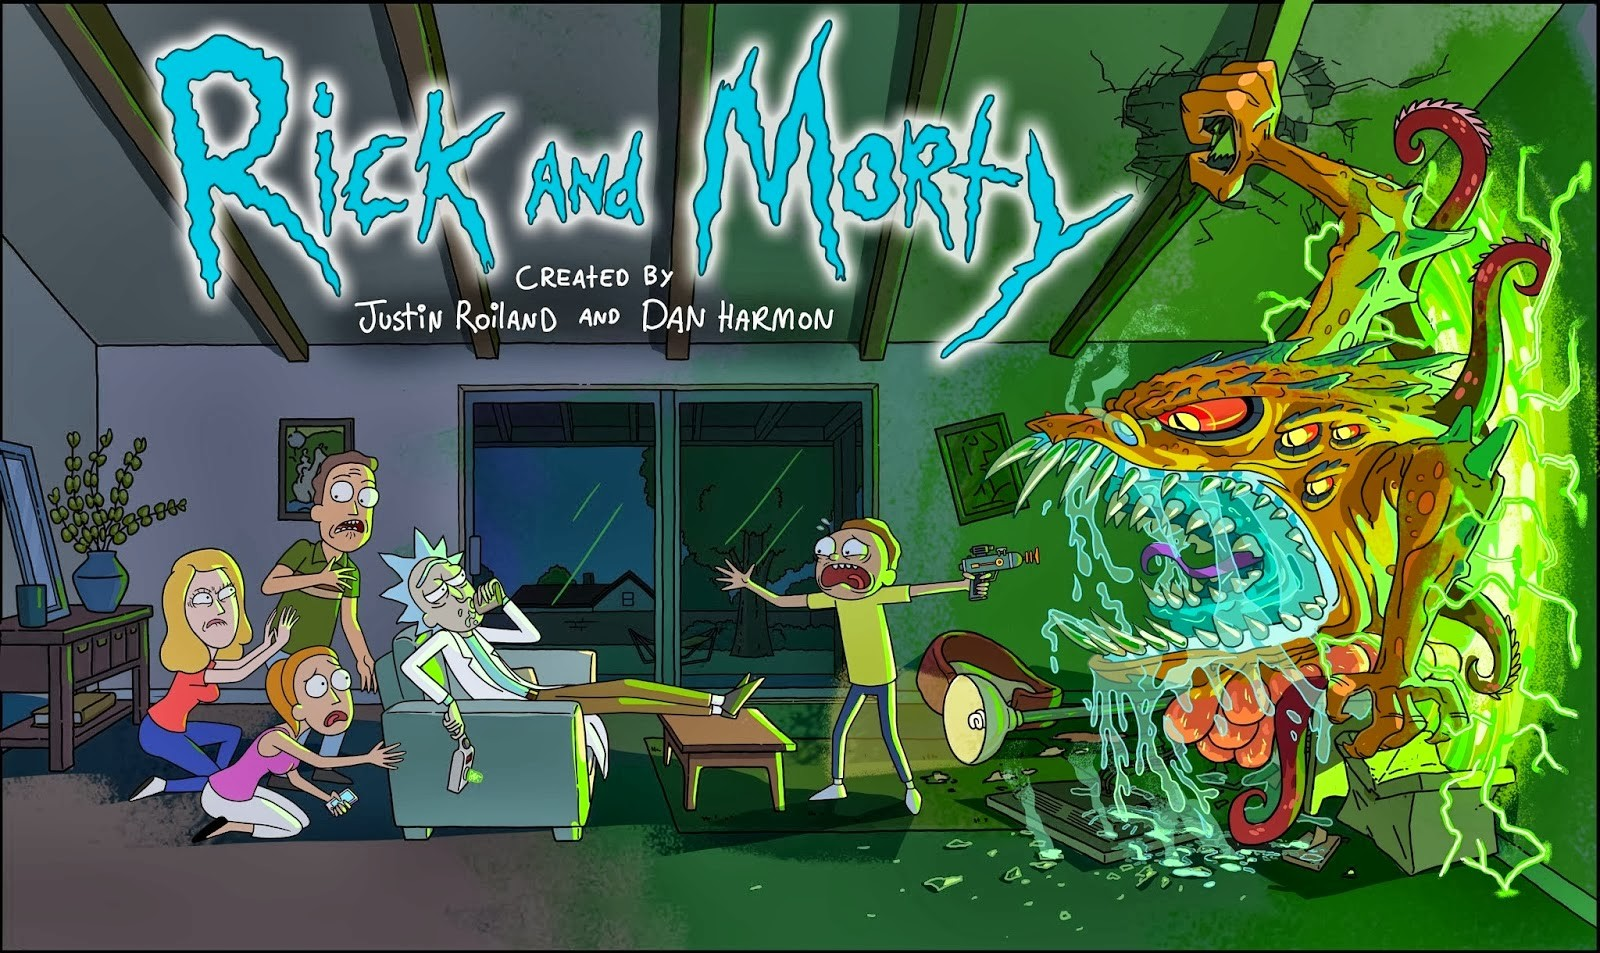
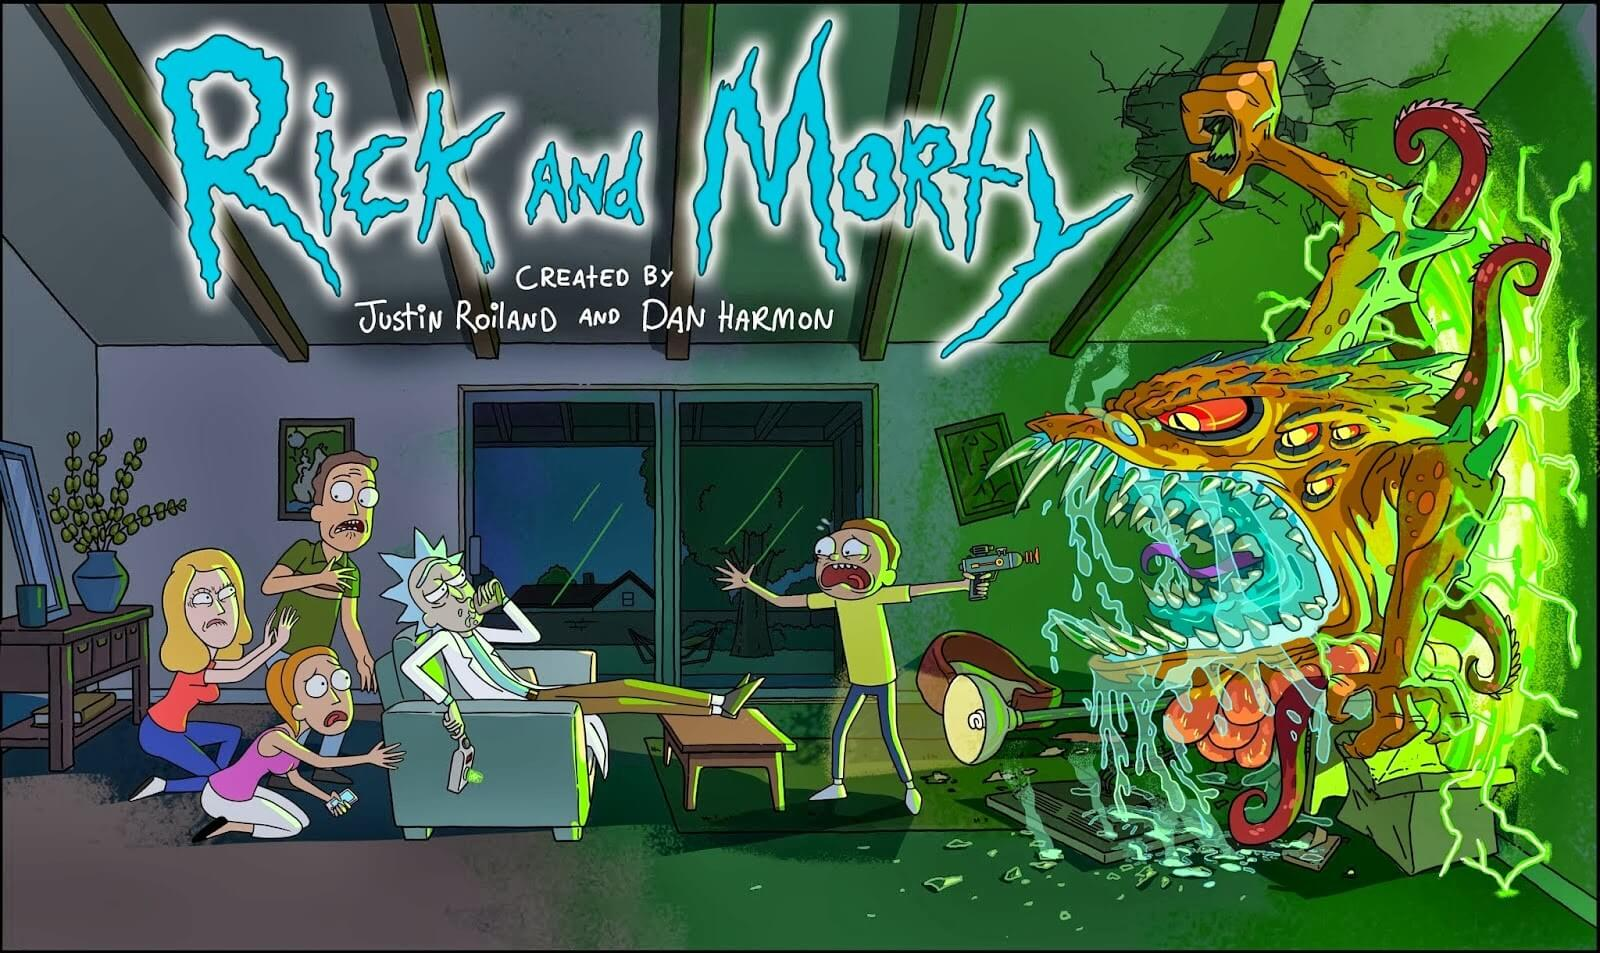
feat:新增

diff --git a/.vuepress/config.js b/.vuepress/config.js
@@ -105,7 +105,7 @@ module.exports = {
     "lastUpdated": false,
     "author": "猫哥",
     "authorAvatar": "/logo.png",
-    "record":'豫ICP备2023003447号-1', //icp备案
+    "record":'豫ICP备2025113267号', //icp备案
     "startYear": "2017",
     "info": "一名被迫搬砖的IT民工/建造师/公路工程师/摄影狗，一只前端开发。",
     "socials":{
@@ -150,7 +150,7 @@ module.exports = {
       }
     ],
     "covers": [
-      './public/bac1.png',
+      './public/bac1.jpg',
       './public/bac2.png',
       './public/bac3.png',
       './public/bac4.jpg',

diff --git a/blogs/story/2022/Hooks.md b/blogs/story/2022/Hooks.md
@@ -1,0 +1,22 @@
+---
+title: Hooks
+cover: /bac11.jpg
+date: 2023-04-03
+tags:
+ - JS
+ 
+categories: 
+ - 技术笔记
+
+---
+::: tip 介绍
+Hooks解析<br>
+:::
+
+
+
+
+
+ 
+
+

diff --git a/blogs/story/2021/Vue3 组件通信最佳实践.md b/blogs/story/2021/Vue3 组件通信最佳实践.md
@@ -1,7 +1,7 @@
 ---
 title: Vue3 组件通信最佳实践
 date: 2021-03-15
-cover: /bac1.png
+cover: /bac1.jpg
 tags:
  - Vue3
  - 前端
